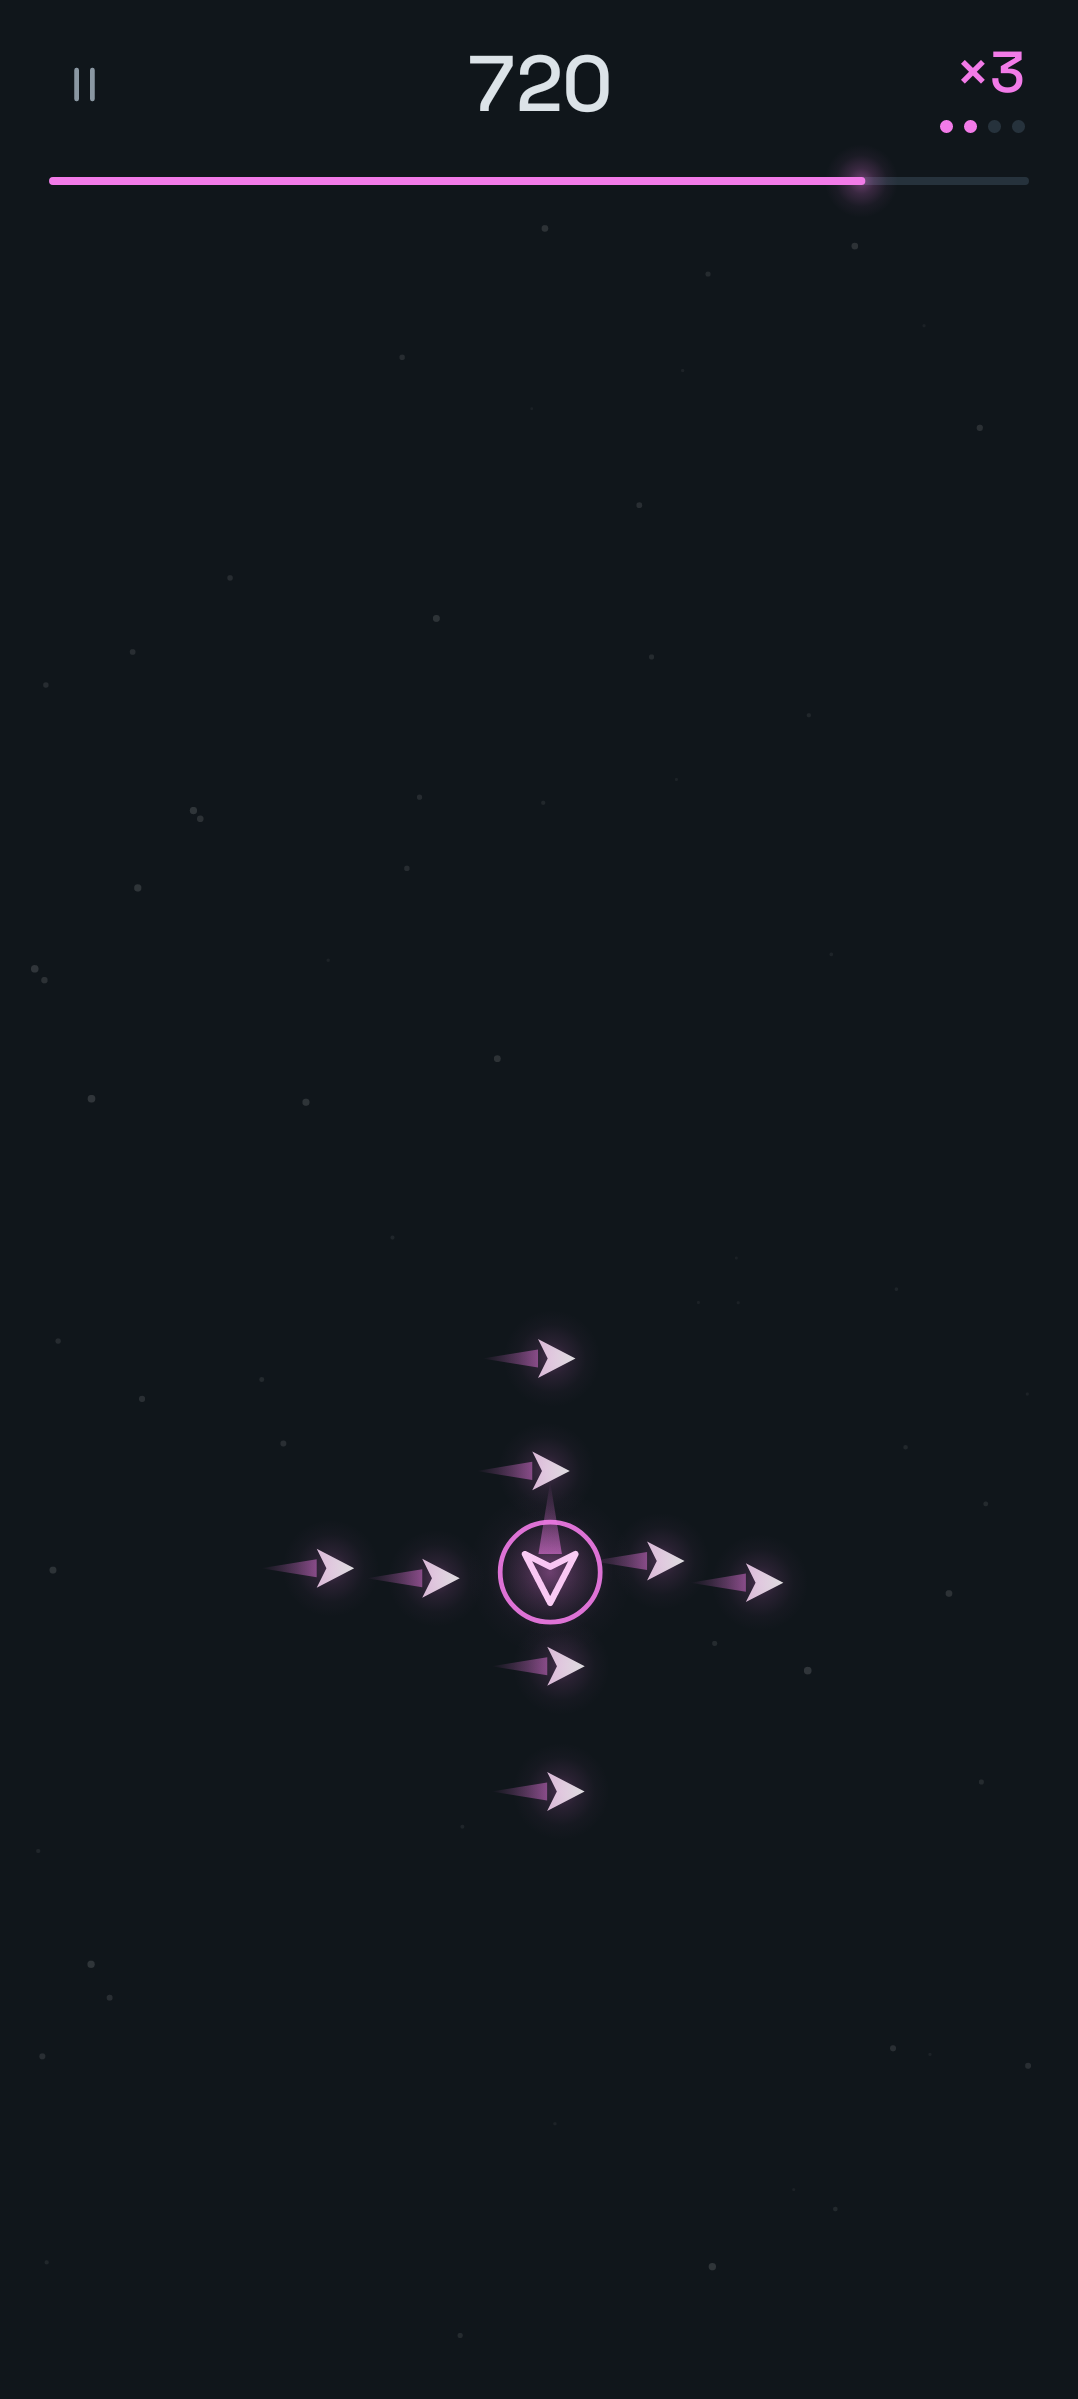
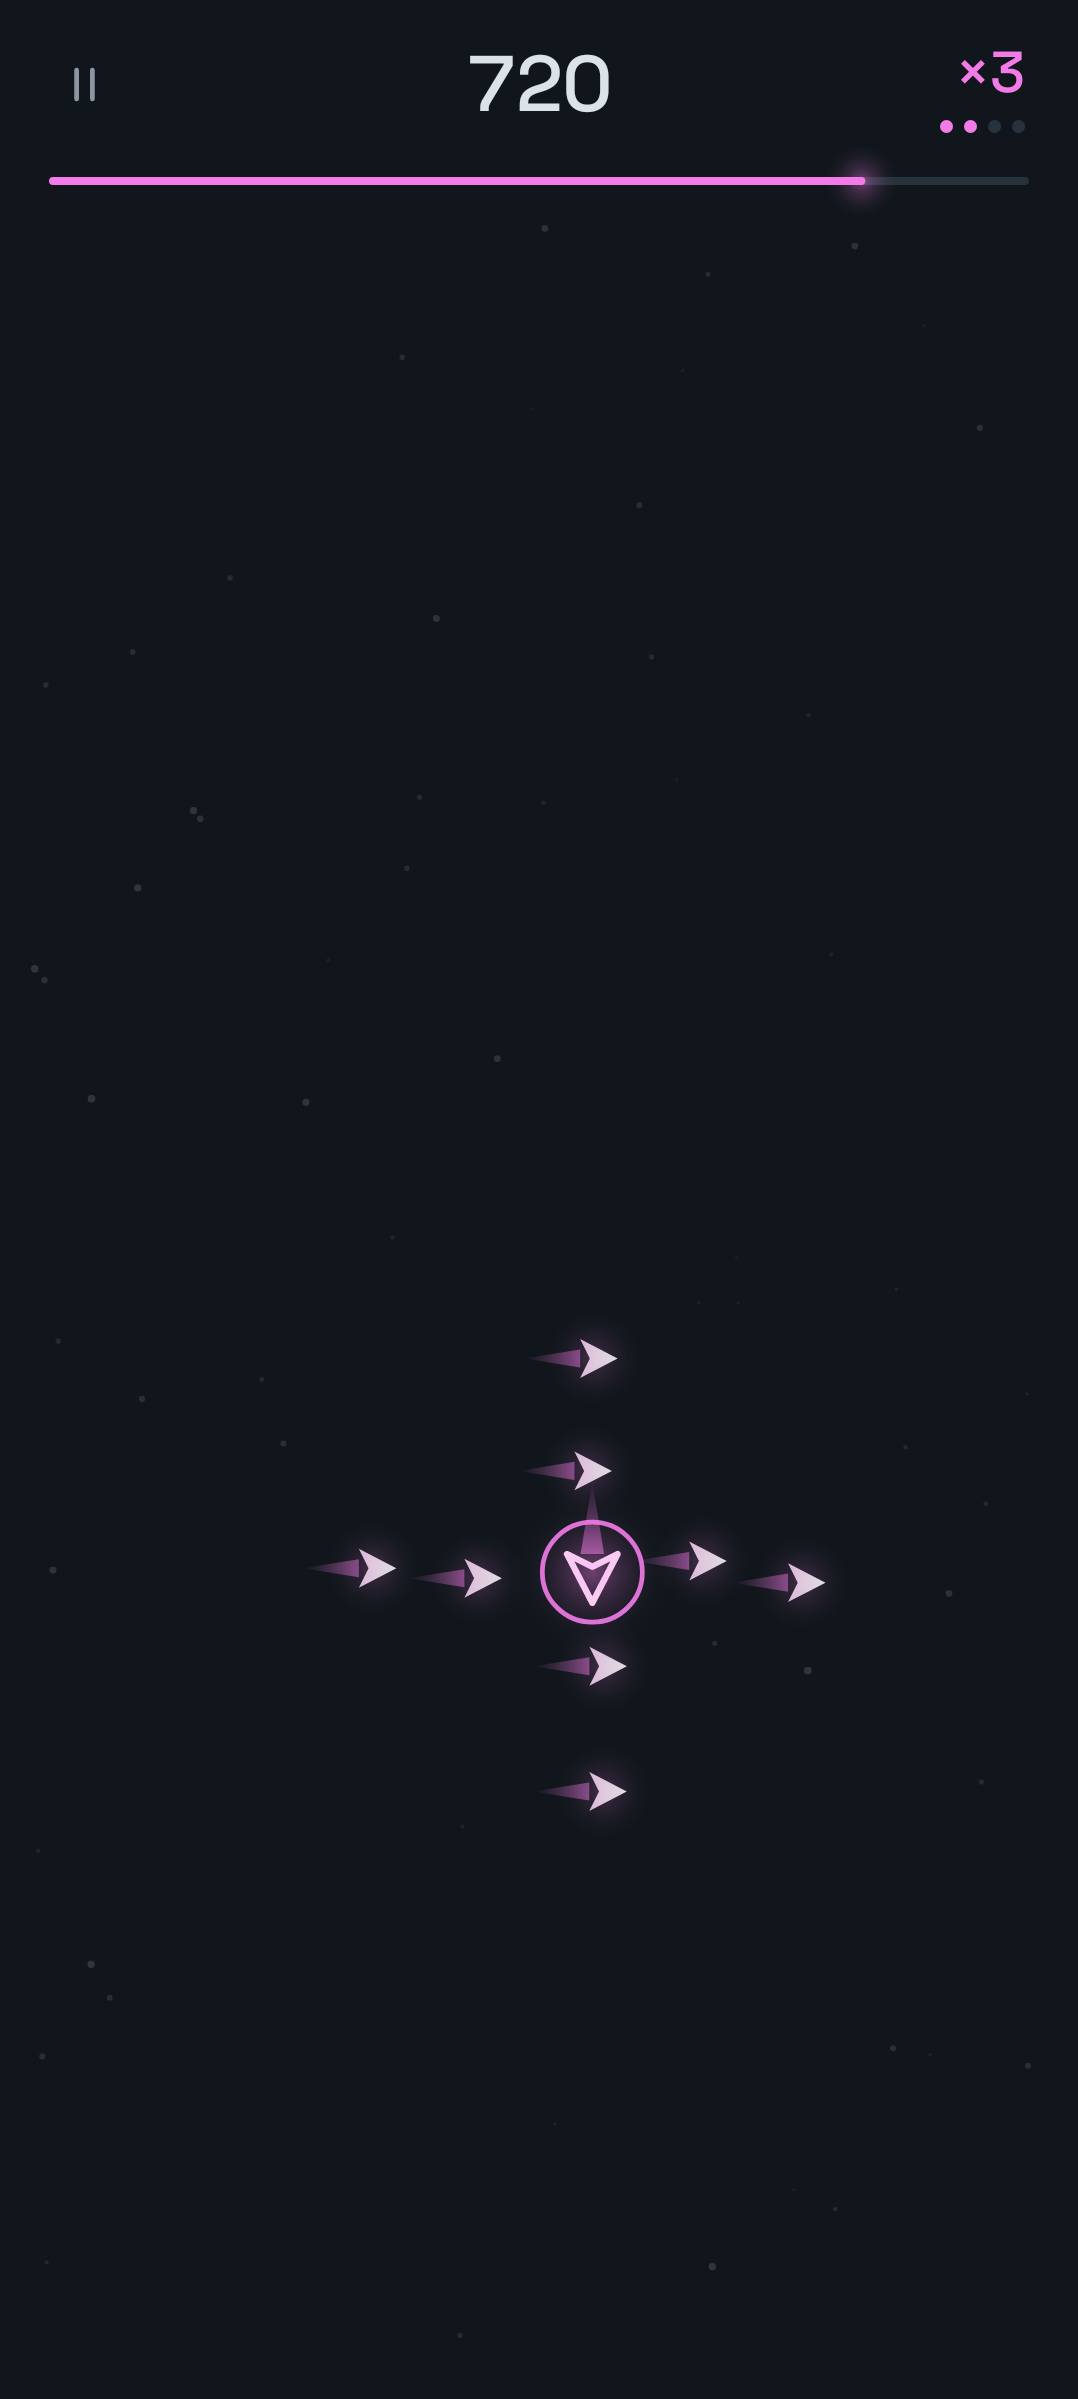
thinkr: Schwarm bleibt beim Fliegen im Brett

Changed region(s): [[0.2755, 0.5552, 0.7653, 0.7095], [0.4898, 0.7403, 0.5816, 0.7712]]

diff --git a/apps/thinkr/src/main/kotlin/solutions/xapient/thinkr/ui/swarm/SwarmBoard.kt b/apps/thinkr/src/main/kotlin/solutions/xapient/thinkr/ui/swarm/SwarmBoard.kt
@@ -3,7 +3,7 @@ package solutions.xapient.thinkr.ui.swarm
 import androidx.compose.foundation.Canvas
 import androidx.compose.foundation.gestures.awaitEachGesture
 import androidx.compose.foundation.gestures.awaitFirstDown
-import androidx.compose.foundation.layout.BoxWithConstraints
+import androidx.compose.foundation.layout.Box
 import androidx.compose.foundation.layout.fillMaxSize
 import androidx.compose.foundation.layout.padding
 import androidx.compose.runtime.Composable
@@ -57,6 +57,9 @@ private const val OUT_MS = 420.0
 // Abstand zwischen Kometen in Kometen-Einheiten
 private const val SPACING = 1.5f
 
+// Flugzeit, fuer die Platz eingeplant wird (laengste Frist der Hohl-Stufen ohne Gemaechlich)
+private const val DRIFT_SPAN_S = 3.2f
+
 // Schwarm-Brett: Wisch in eine von vier Richtungen; alle Bewegung haengt an der Spielzeit
 @Composable
 fun SwarmBoard(s: SwarmState, live: Boolean, count: Int, onSwipe: (Dir) -> Unit) {
@@ -66,7 +69,7 @@ fun SwarmBoard(s: SwarmState, live: Boolean, count: Int, onSwipe: (Dir) -> Unit)
     val desc = stringResource(R.string.swarm_board)
     val labels = Dir.entries.associateWith { stringResource(dirLabel(it)) }
     val dust = remember { Random(57).let { r -> List(60) { floatArrayOf(r.nextFloat(), r.nextFloat(), r.nextFloat()) } } }
-    BoxWithConstraints(Modifier.fillMaxSize().padding(horizontal = 12.dp).padding(bottom = 16.dp)) {
+    Box(Modifier.fillMaxSize().padding(horizontal = 12.dp).padding(bottom = 16.dp)) {
         val maxUnit = with(LocalDensity.current) { 56.dp.toPx() }
         Canvas(
             Modifier
@@ -150,11 +153,14 @@ private fun DrawScope.drawFlock(
     val spots = Formations.spots(f.formation, f.size)
     val ex = spots.maxOf { abs(it.x) } * u * SPACING + u * 1.3f
     val ey = spots.maxOf { abs(it.y) } * u * SPACING + u * 1.3f
-    val cx = if (size.width > 2 * ex) ex + f.x * (size.width - 2 * ex) else size.width / 2
-    val cy = if (size.height > 2 * ey) ey + f.y * (size.height - 2 * ey) else size.height / 2
+    // Startpunkt so, dass auch der fliegende Schwarm im Brett bleibt
+    val span = u * SwarmRules.DRIFT_SPEED.toFloat() * DRIFT_SPAN_S * (if (s.relaxed) SwarmRules.RELAXED.toFloat() else 1f)
+    val dv = f.drift?.vec() ?: Offset.Zero
+    val cx = place(f.x, ex + span * maxOf(0f, -dv.x), size.width - ex - span * maxOf(0f, dv.x), size.width)
+    val cy = place(f.y, ey + span * maxOf(0f, -dv.y), size.height - ey - span * maxOf(0f, dv.y), size.height)
     // Flug des ganzen Schwarms (nur mit Hohl-Regel), bis zur Antwort
     val flown = ((until - shownAt) / 1000.0).coerceAtLeast(0.0).toFloat()
-    val drift = (f.drift?.vec() ?: Offset.Zero) * (u * SwarmRules.DRIFT_SPEED.toFloat() * flown)
+    val drift = dv * (u * SwarmRules.DRIFT_SPEED.toFloat() * flown)
     val enter = if (out == null) Spring.step(now - shownAt, hz = 3.0, damping = 0.7).toFloat() else 1f
     val p = if (out != null) ((now - out.at) / OUT_MS).toFloat().coerceIn(0f, 1f) else 0f
     val good = out?.correct == true
@@ -183,6 +189,12 @@ private fun DrawScope.drawFlock(
             drawCircle(accent.copy(alpha = 0.9f * alpha), u * 0.72f, pos, style = Stroke(1.8.dp.toPx()))
         }
     }
+}
+
+// f (0..1) im Bereich lo..hi; passt es nicht, mittig zwischen lo und hi, notfalls Brettmitte
+private fun place(f: Float, lo: Float, hi: Float, full: Float): Float = when {
+    hi >= lo -> lo + f * (hi - lo)
+    else -> ((lo + hi) / 2).coerceIn(0f, full)
 }
 
 // Einheitsvektor von a nach b drehen (kuerzester Winkel), t = 0..1
